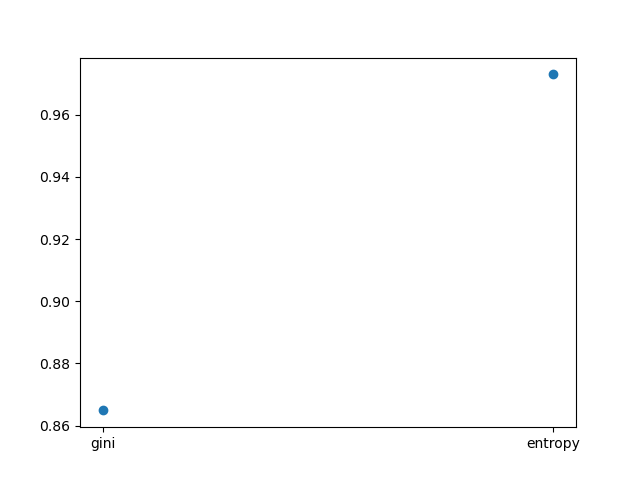
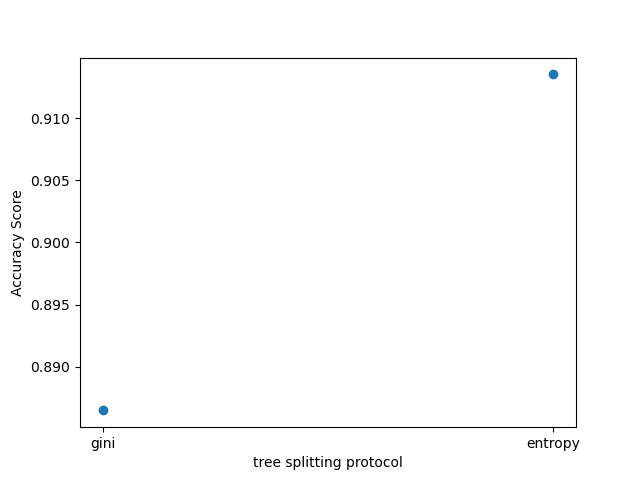
added titles to x and y axis of graphs

diff --git a/src/neural_network.py b/src/neural_network.py
@@ -1,13 +1,15 @@
 from os import path
 
+import matplotlib.pyplot as plt
 from sklearn import metrics
 from sklearn.model_selection import train_test_split
 from sklearn.neural_network import MLPClassifier
-import matplotlib.pyplot as plt
-from utils.command_parser import neural_network_commandline_parser as parser
+
+# from utils.command_parser import neural_network_commandline_parser as parser
 from utils.get_dataset import get_dataset
 
 project_path = path.abspath(path.dirname(__file__))
+
 
 def main():
     datasets = get_dataset()
@@ -21,14 +23,20 @@ def main():
         layer = test_layer_size(X, 0.2, y, layer_sizes)
 
         plt.scatter(percentage.keys(), percentage.values())
+        plt.ylabel("Accuracy Score")
+        plt.xlabel("% of data used to train")
         output_path = path.join(project_path, "..", f"./outputs/neural_percentage_{dataset['tag']}")
         plt.savefig(output_path)
+
         plt.clf()
 
         plt.scatter(layer.keys(), layer.values())
+        plt.ylabel("Accuracy Score")
+        plt.xlabel("Number of Layers")
         output_path = path.join(project_path, "..", f"./outputs/neural_layers_{dataset['tag']}")
         plt.savefig(output_path)
         plt.clf()
+
 
 def test_percentage_test(X, test_percentages, y, layer_size):
     accuracies = {}
@@ -37,8 +45,9 @@ def test_percentage_test(X, test_percentages, y, layer_size):
         for i in range(5):
             acc += get_accuracy(X, percentage, y, "lbfgs", layer_size)
         accuracies[percentage] = acc / 5
-    print("test",accuracies)
+    print("test", accuracies)
     return accuracies
+
 
 def test_layer_size(X, percentage, y, layer_size):
     accuracies = {}
@@ -47,12 +56,14 @@ def test_layer_size(X, percentage, y, layer_size):
         for i in range(5):
             acc += get_accuracy(X, percentage, y, "lbfgs", int(size))
         accuracies[size] = acc / 5
-    print("layer",accuracies)
+    print("layer", accuracies)
     return accuracies
+
 
 def get_accuracy(X, test_percentage, y, solver, layer_size):
     X_train, X_test, y_train, y_test = train_test_split(X, y, test_size=test_percentage)
-    classifier = MLPClassifier(solver=solver, alpha=1e-5, hidden_layer_sizes=(layer_size,2), random_state=1, max_iter=1000).fit(X_train, y_train)
+    classifier = MLPClassifier(solver=solver, alpha=1e-5, hidden_layer_sizes=(layer_size, 2), random_state=1,
+                               max_iter=1000).fit(X_train, y_train)
     prediction = classifier.predict(X_test)
     acc = metrics.accuracy_score(y_test, prediction)
     # print("Accuracy:", acc)

diff --git a/src/decision_tree.py b/src/decision_tree.py
@@ -10,6 +10,7 @@ from utils.get_dataset import get_dataset
 
 project_path = path.abspath(path.dirname(__file__))
 
+
 def main():
     datasets = get_dataset()
 
@@ -19,21 +20,27 @@ def main():
         test_percentages = dataset["test_percentage"]
         splitters = dataset["tree_splitters"]
 
+        plt.ylabel("Accuracy Score")
+
         percentage = test_percentage_test(X, test_percentages, y, "gini")
         splitters = test_splitter(X, 0.2, y, splitters)
 
         plt.scatter(percentage.keys(), percentage.values(), marker='o')
+        plt.ylabel("Accuracy Score")
+        plt.xlabel("% of data used to train")
         output_path = path.join(project_path, "..", f"./outputs/tree_percentage_{dataset['tag']}")
         plt.savefig(output_path)
         plt.clf()
 
         plt.scatter(splitters.keys(), splitters.values(), marker='o')
+        plt.ylabel("Accuracy Score")
+        plt.xlabel("tree splitting protocol")
         output_path = path.join(project_path, "..", f"./outputs/tree_splitters_{dataset['tag']}")
         plt.savefig(output_path)
         plt.clf()
 
-
     pass
+
 
 def test_percentage_test(X, test_percentages, y, splitter):
     accuracies = {}

diff --git a/src/random_forest.py b/src/random_forest.py
@@ -7,10 +7,11 @@ from sklearn import metrics
 from sklearn.ensemble import RandomForestClassifier
 from sklearn.model_selection import train_test_split
 
-from utils import command_parser as parser
+# from utils import command_parser as parser
 from utils.get_dataset import get_dataset
 
 project_path = path.abspath(path.dirname(__file__))
+
 
 def main():
     datasets = get_dataset()
@@ -24,12 +25,17 @@ def main():
         percentage = test_percentage_test(X, test_percentages, y, "gini")
         splitters = test_splitter(X, 0.2, y, splitters)
 
+
         plt.scatter(percentage.keys(), percentage.values())
+        plt.ylabel("Accuracy Score")
+        plt.xlabel("% of data used to train")
         output_path = path.join(project_path, "..", f"./outputs/forrest_percentage_{dataset['tag']}")
         plt.savefig(output_path)
         plt.clf()
 
         plt.scatter(splitters.keys(), splitters.values())
+        plt.ylabel("Accuracy Score")
+        plt.xlabel("tree splitting protocol")
         output_path = path.join(project_path, "..", f"./outputs/forrest_splitters_{dataset['tag']}")
         plt.savefig(output_path)
         plt.clf()
